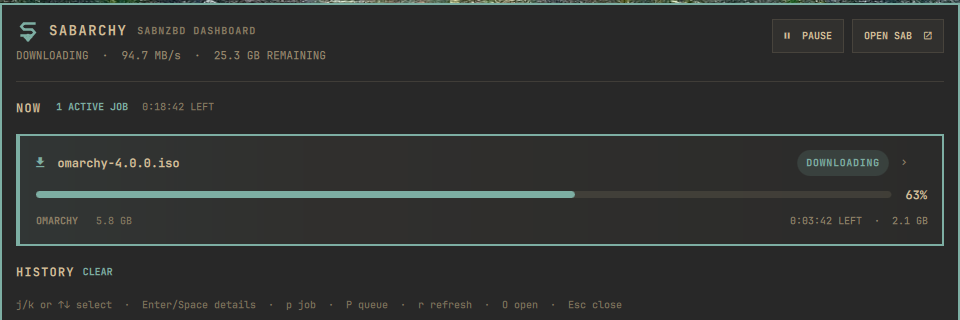
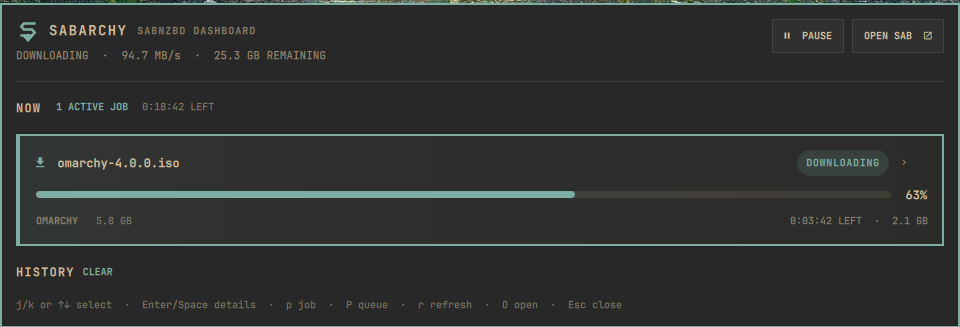
Refine screenshot presentation

diff --git a/README.md b/README.md
@@ -10,9 +10,9 @@ compact theme-aware panel.
 
 ![Active Omarchy 4 download with clear history](docs/screenshots/00-gruvbox-clean-download.png)
 
-### Failure recovery
+### Active queue and recent history
 
-![Failure and retry state using Ristretto](docs/screenshots/03-ristretto-failure-retry.png)
+![Active download and recent history using Ristretto](docs/screenshots/variants/ristretto-active-history.png)
 
 ## Features
 
